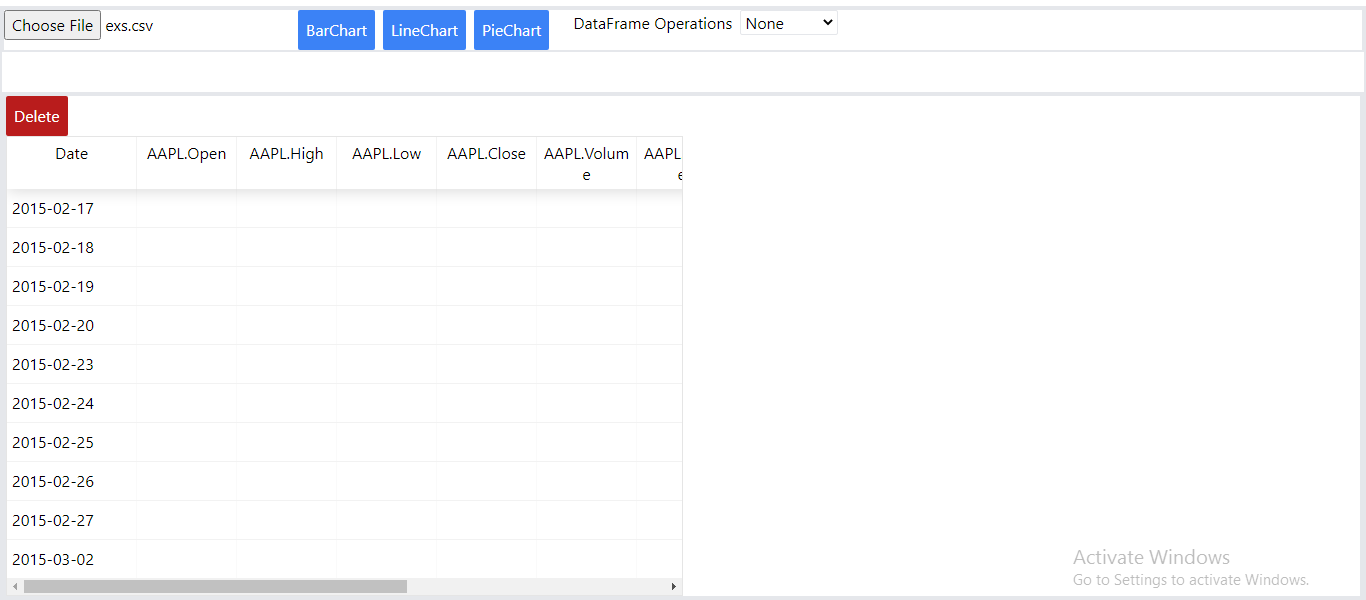
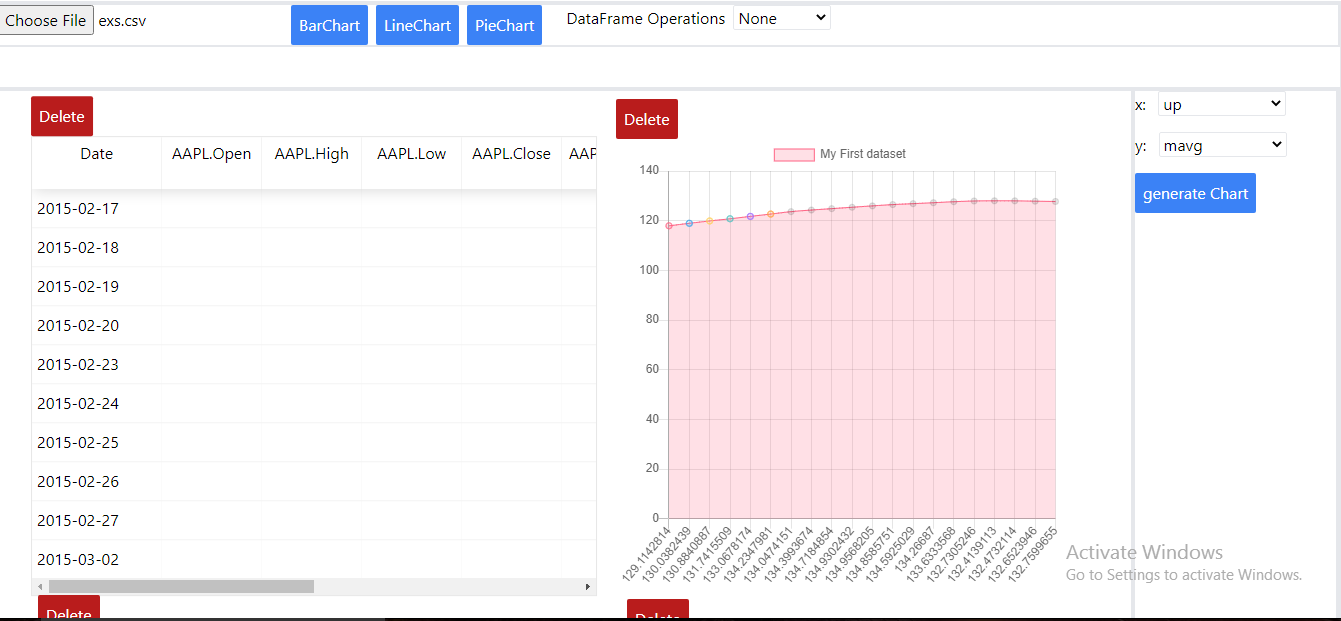
deletable chart

diff --git a/README.md b/README.md
@@ -8,8 +8,6 @@ This a work in progres and lack some styling. The major part of `Data-aRT` is fu
 
 ![](exxample.png)
 
-<<<<<<< HEAD
 ![](Capture.PNG)
-=======
-![](Capture.PNG)
->>>>>>> a863a24751b7a69bcaa4ef46d93740dd5c1dcaca
+
+![](Capture2.PNG)
